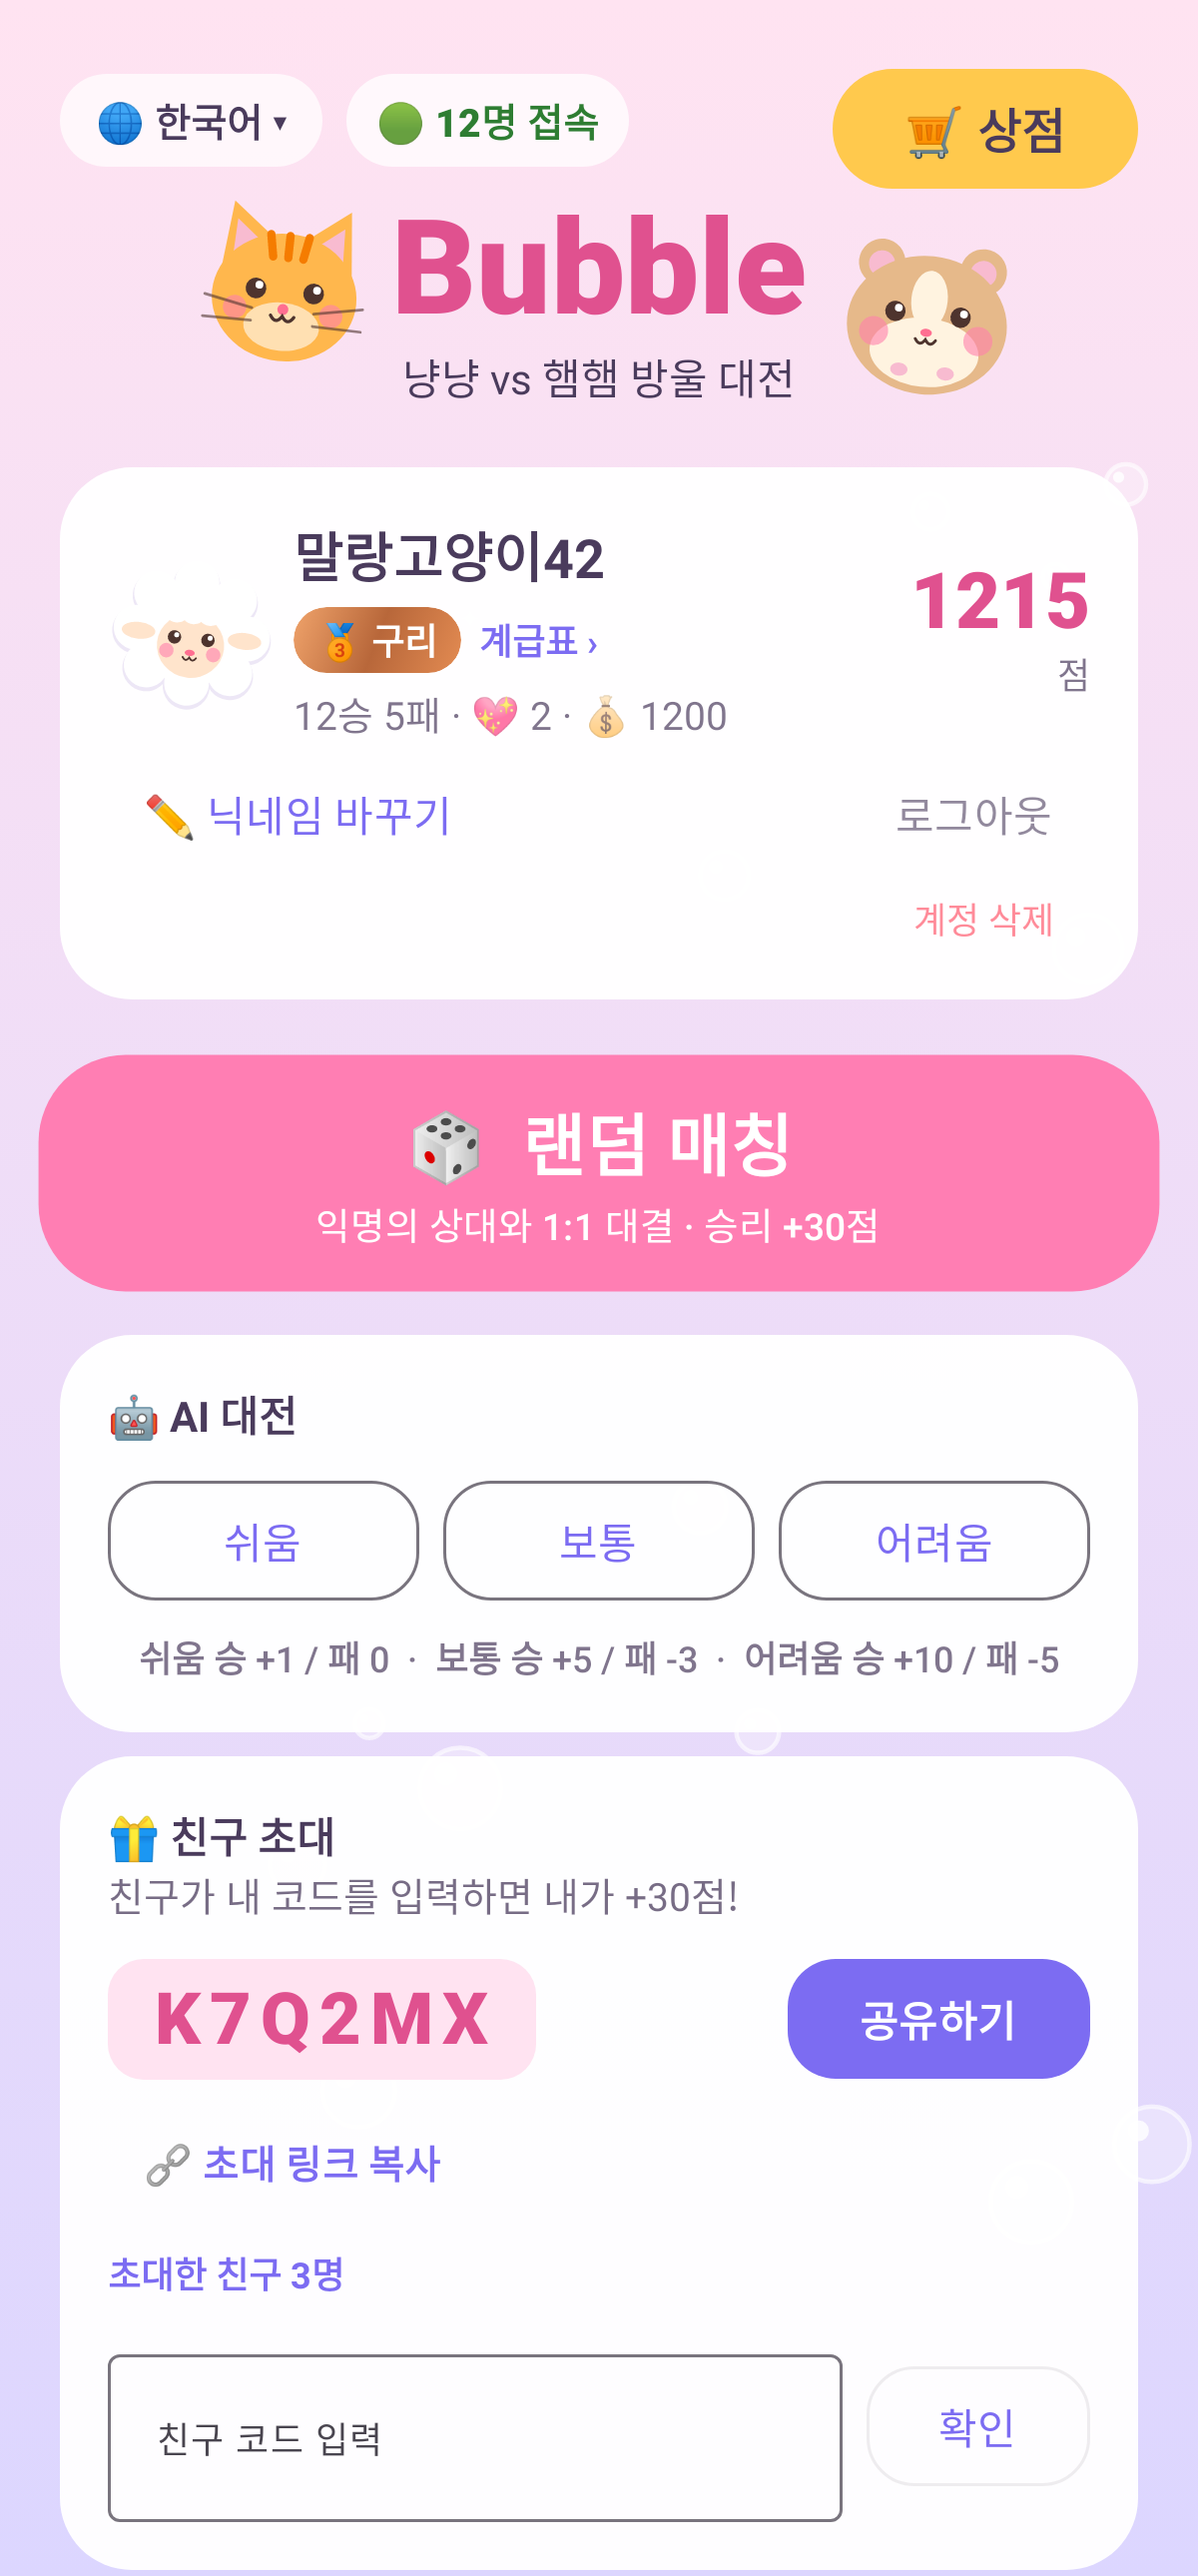
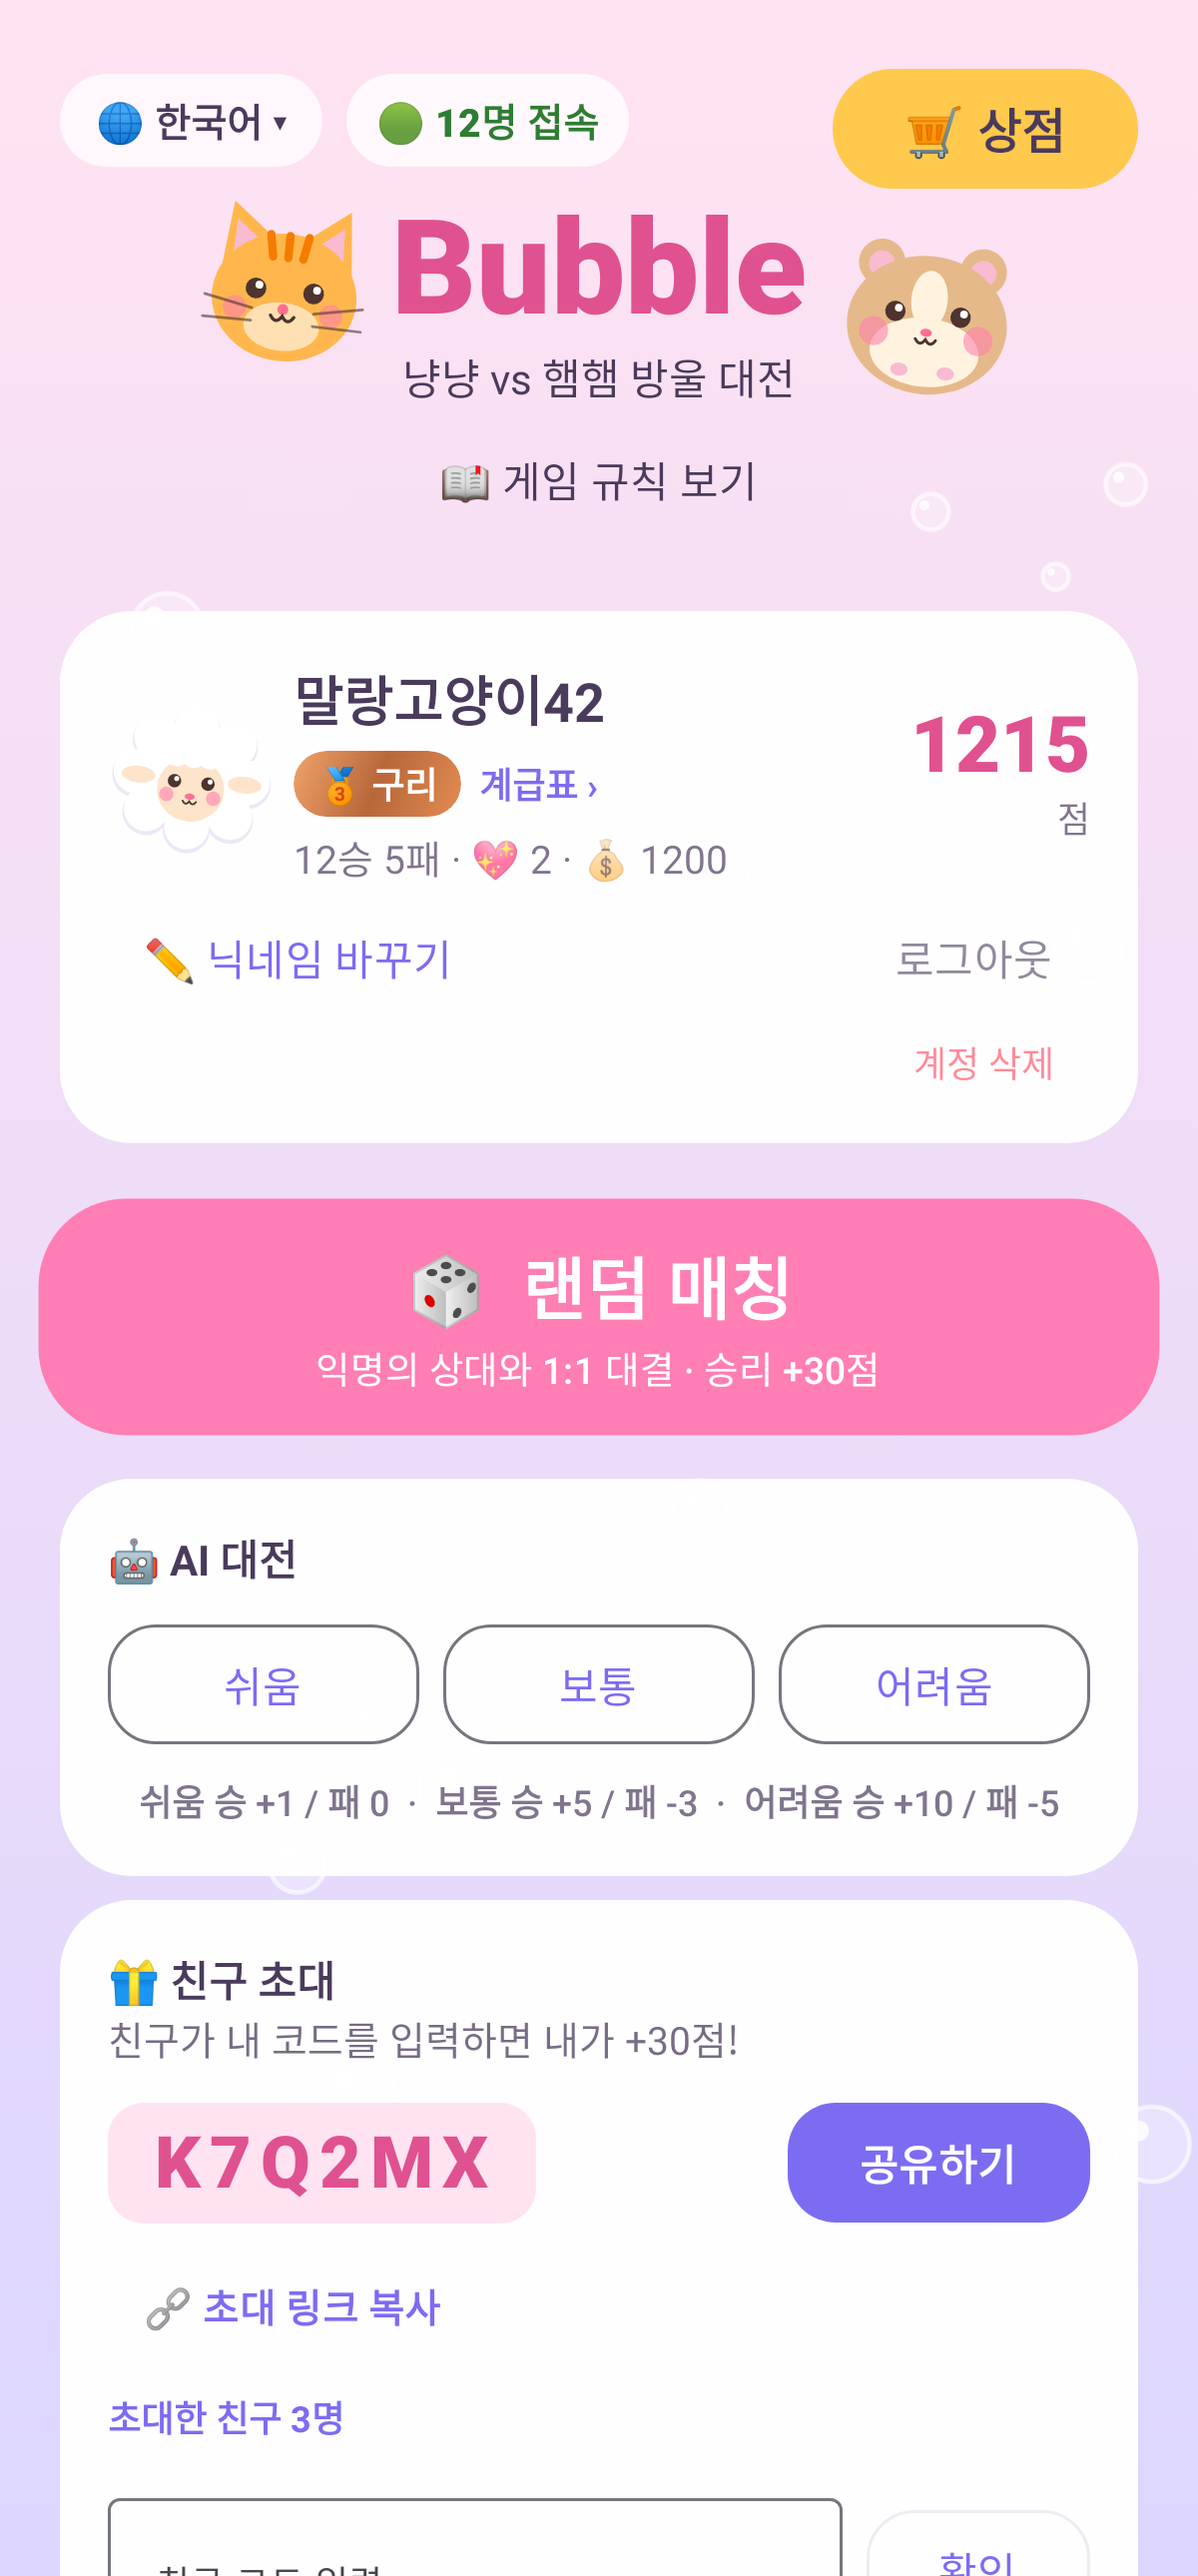
Scroll the rank table, move rules link under title, widen match window
The rank table scrolls so Dirt is never cut off on small phones, and the
How-to-play link sits under the title. Score matching starts at +-1000
and widens by 1000 per second.

Claude-Session: https://claude.ai/code/session_01BuUDiGkM2tHykbpiLtTpg7

diff --git a/app/src/main/java/com/bubble/game/ui/Screens.kt b/app/src/main/java/com/bubble/game/ui/Screens.kt
@@ -157,6 +157,7 @@ private fun LobbyScreen(vm: AppViewModel) {
             if (ui.profile != null) ShopIconButton(onClick = vm::openShop)
         }
         TitleBanner()
+        TextButton(onClick = { showRules = true }) { Text(tr("📖 게임 규칙 보기", "📖 How to play", zh = "📖 游戏规则", hi = "📖 कैसे खेलें", es = "📖 Cómo jugar", fr = "📖 Règles du jeu", ar = "📖 طريقة اللعب", de = "📖 Spielregeln", pt = "📖 Como jogar", ru = "📖 Как играть", ja = "📖 遊び方"), color = Ui.text) }
         Spacer(Modifier.height(16.dp))
 
         SoftCard {
@@ -313,7 +314,6 @@ zh = "登录后 AI 对战也能得分", hi = "साइन इन करें, 
             )
         }
         ui.profile?.let { p -> InviteCard(vm, p, ui.shopBusy) }
-        TextButton(onClick = { showRules = true }) { Text(tr("📖 게임 규칙 보기", "📖 How to play", zh = "📖 游戏规则", hi = "📖 कैसे खेलें", es = "📖 Cómo jugar", fr = "📖 Règles du jeu", ar = "📖 طريقة اللعب", de = "📖 Spielregeln", pt = "📖 Como jogar", ru = "📖 Как играть", ja = "📖 遊び方"), color = Ui.text) }
         ui.info?.let {
             Text(it, color = Ui.accent, fontWeight = FontWeight.Bold, fontSize = 14.sp, textAlign = TextAlign.Center)
         }
@@ -1361,7 +1361,8 @@ private fun RanksDialog(myScore: Int, onDismiss: () -> Unit) {
         confirmButton = { TextButton(onClick = onDismiss) { Text(tr("닫기", "Close", zh = "关闭", hi = "बंद करें", es = "Cerrar", fr = "Fermer", ar = "إغلاق", de = "Schließen", pt = "Fechar", ru = "Закрыть", ja = "閉じる"), fontWeight = FontWeight.Bold) } },
         title = { Text(tr("🏅 계급표", "🏅 Ranks", zh = "🏅 等级表", hi = "🏅 रैंक", es = "🏅 Rangos", fr = "🏅 Rangs", ar = "🏅 الرتب", de = "🏅 Ränge", pt = "🏅 Ranks", ru = "🏅 Ранги", ja = "🏅 ランク表"), fontWeight = FontWeight.Black, fontSize = 24.sp) },
         text = {
-            Column {
+            // 계급이 7개라 작은 화면에선 길어짐 → 스크롤
+            Column(Modifier.verticalScroll(rememberScrollState())) {
                 Rank.entries.reversed().forEach { r ->
                     val isMine = r == mine
                     val range = when (r) {
@@ -1376,12 +1377,12 @@ zh = "${r.minScore} – ${Rank.entries[r.ordinal + 1].minScore - 1} 分", hi = "
                     Row(
                         Modifier
                             .fillMaxWidth()
-                            .padding(vertical = 3.dp)
+                            .padding(vertical = 2.dp)
                             .background(
                                 if (isMine) Ui.primary.copy(alpha = 0.15f) else Color.Transparent,
                                 RoundedCornerShape(14.dp),
                             )
-                            .padding(horizontal = 10.dp, vertical = 9.dp),
+                            .padding(horizontal = 8.dp, vertical = 5.dp),
                         verticalAlignment = Alignment.CenterVertically,
                     ) {
                         // 배지 폭을 맞춰 표처럼 보이게

diff --git a/app/src/test/java/com/bubble/game/ui/ScreenshotTest.kt b/app/src/test/java/com/bubble/game/ui/ScreenshotTest.kt
@@ -5,6 +5,8 @@ import androidx.activity.ComponentActivity
 import androidx.compose.ui.test.junit4.createAndroidComposeRule
 import androidx.compose.ui.test.onNodeWithText
 import androidx.compose.ui.test.performClick
+import androidx.compose.ui.test.performTouchInput
+import androidx.compose.ui.test.swipeUp
 import androidx.test.core.app.ApplicationProvider
 import com.bubble.game.game.Board
 import com.bubble.game.game.Side
@@ -171,6 +173,31 @@ class ScreenshotTest {
             )
         }
         shot("vs", 600)
+    }
+
+    /** 작은 폰(360×640dp)에서 계급표가 잘리지 않는지 (스크롤로 끝까지 보임) */
+    @Test
+    @Config(sdk = [34], qualifiers = "w360dp-h640dp-xxhdpi")
+    fun ranksDialogSmallPhone() {
+        rule.mainClock.autoAdvance = false
+        val vm = AppViewModel(ApplicationProvider.getApplicationContext())
+        vm.debugSetLobby { it.copy(onlineAvailable = true, loading = false, profile = richProfile(7300)) }
+        rule.setContent { BubbleApp(vm) }
+        rule.mainClock.advanceTimeBy(600)
+        rule.onNodeWithText("  계급표 ›").performClick()
+        repeat(5) {
+            rule.mainClock.advanceTimeBy(200)
+            org.robolectric.shadows.ShadowLooper.idleMainLooper()
+        }
+        shot("ranks_small_top", 300)
+        // 위로 쓸어 올려 맨 아래(흙)까지 스크롤
+        rule.onNodeWithText("보너스 없음").performTouchInput { swipeUp(startY = bottom, endY = top) }
+        rule.onNodeWithText("7000 ~ 9999점").performTouchInput { swipeUp(startY = bottom, endY = top - 2000f) }
+        repeat(3) {
+            rule.mainClock.advanceTimeBy(200)
+            org.robolectric.shadows.ShadowLooper.idleMainLooper()
+        }
+        shot("ranks_small_bottom", 300)
     }
 
     @Test

diff --git a/functions/test/matching.test.ts b/functions/test/matching.test.ts
@@ -6,22 +6,24 @@ const now = 1_000_000;
 const w = (id: string, score: number, waitedMs: number) => ({ id, score, createdAt: now - waitedMs });
 
 test("window widens with waiting time and opens after 20 seconds", () => {
-  assert.equal(scoreWindow(0), 150);
-  assert.equal(scoreWindow(10_000), 400);
-  assert.equal(scoreWindow(19_999), 625);
+  assert.equal(scoreWindow(0), 1000);
+  assert.equal(scoreWindow(1_000), 2000);
+  assert.equal(scoreWindow(10_000), 11000);
+  assert.equal(scoreWindow(19_999), 20000);
   assert.equal(scoreWindow(20_000), Number.POSITIVE_INFINITY);
 });
 
 test("picks the closest score within the window", () => {
   const me = w("me", 1200, 0);
-  const pick = pickOpponent(me, [w("a", 1500, 0), w("b", 1260, 0), w("c", 1100, 0)], now);
+  const pick = pickOpponent(me, [w("a", 1900, 0), w("b", 1260, 0), w("c", 1100, 0)], now);
   assert.equal(pick?.id, "b");
 });
 
 test("does not match far scores until someone has waited long enough", () => {
   const me = w("me", 1000, 0);
-  assert.equal(pickOpponent(me, [w("far", 3000, 5_000)], now), null);
-  assert.equal(pickOpponent(me, [w("far", 3000, 21_000)], now)?.id, "far");
+  assert.equal(pickOpponent(me, [w("far", 8000, 5_000)], now), null);
+  assert.equal(pickOpponent(me, [w("far", 8000, 6_000)], now)?.id, "far"); // 6초: ±7000
+  assert.equal(pickOpponent(me, [w("very far", 50000, 21_000)], now)?.id, "very far");
 });
 
 test("never matches yourself", () => {

diff --git a/functions/src/matching.ts b/functions/src/matching.ts
@@ -11,10 +11,15 @@ export interface Waiter {
 /** 이 시간이 지나면 점수와 상관없이 매칭 (앱은 30초가 지나면 AI 대전으로 넘어감) */
 export const ANYONE_AFTER_MS = 20_000;
 
-/** 기다린 시간에 따른 허용 점수 차: 처음 ±150, 1초마다 +25, 20초 지나면 무제한 */
+/** 처음 허용 점수 차 */
+export const START_WINDOW = 1000;
+/** 1초 기다릴 때마다 늘어나는 허용 점수 차 */
+export const WINDOW_PER_SECOND = 1000;
+
+/** 기다린 시간에 따른 허용 점수 차: 처음 ±1000, 1초마다 +1000, 20초 지나면 무제한 */
 export function scoreWindow(waitMs: number): number {
   if (waitMs >= ANYONE_AFTER_MS) return Number.POSITIVE_INFINITY;
-  return 150 + Math.floor(Math.max(0, waitMs) / 1000) * 25;
+  return START_WINDOW + Math.floor(Math.max(0, waitMs) / 1000) * WINDOW_PER_SECOND;
 }
 
 /**

diff --git a/README.md b/README.md
@@ -69,7 +69,7 @@
 
 - 구글 로그인: 점수·전적이 구글 계정에 저장 (상대에게는 닉네임만 보임)
 - 로비: 닉네임(자동 생성, 변경 가능), 점수·전적, 랭킹 TOP 30, 로그아웃
-- 랜덤 매칭: 비슷한 점수끼리 먼저 연결 (처음 ±150점, 기다릴수록 범위 확대), **20초가 지나면 점수와 상관없이 아무나**, **30초가 지나도 상대가 없으면 AI(어려움)와 대결** (AI라고 표시)
+- 랜덤 매칭: 비슷한 점수끼리 먼저 연결 (처음 ±1000점, 1초마다 1000점씩 범위 확대), **20초가 지나면 점수와 상관없이 아무나**, **30초가 지나도 상대가 없으면 AI(어려움)와 대결** (AI라고 표시)
 - 매칭되면 VS 소개 화면에 서로의 **국기·나라·계급**이 3초 동안 보이고, 게임 중 이름표에도 국기와 계급 배지가 표시됨 (나라는 통신사/SIM 국가 기준, 위치 권한 없음)
 - 온라인 대전: 실시간 동기화, 턴 타이머, 기권/시간초과 처리
 - AI 연습: 쉬움 / 보통 / 어려움 (미니맥스 AI, 오프라인)
